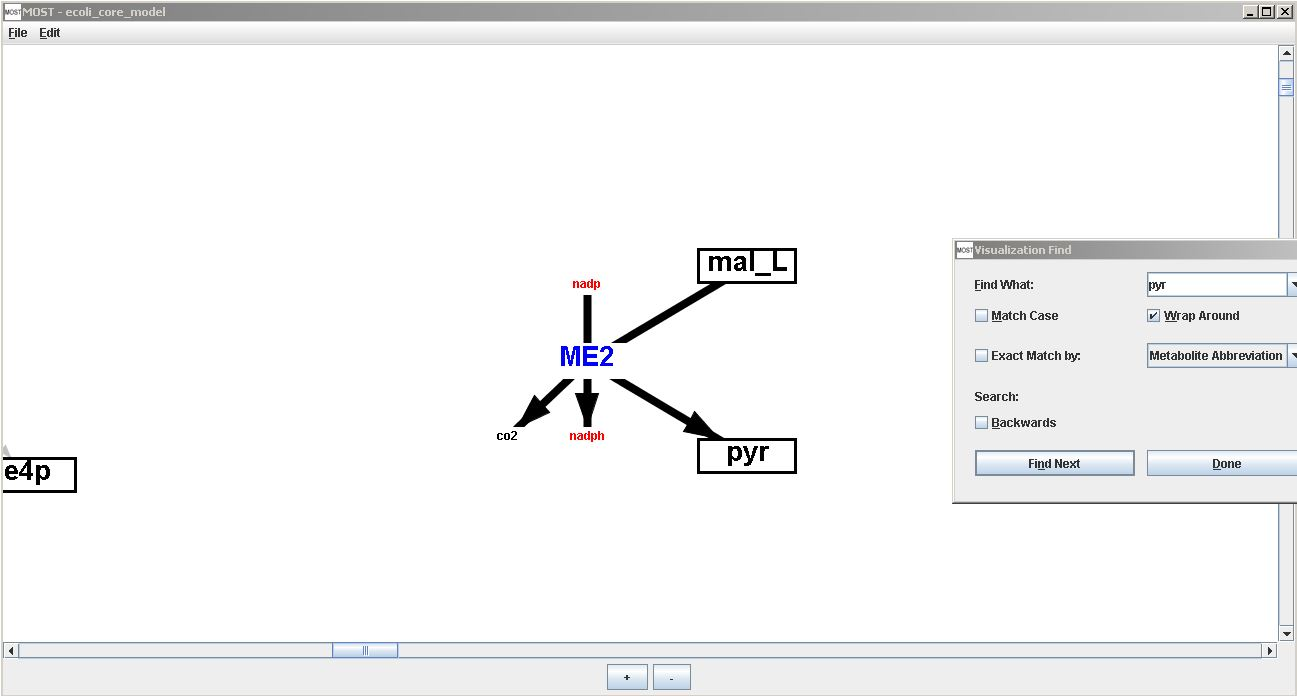
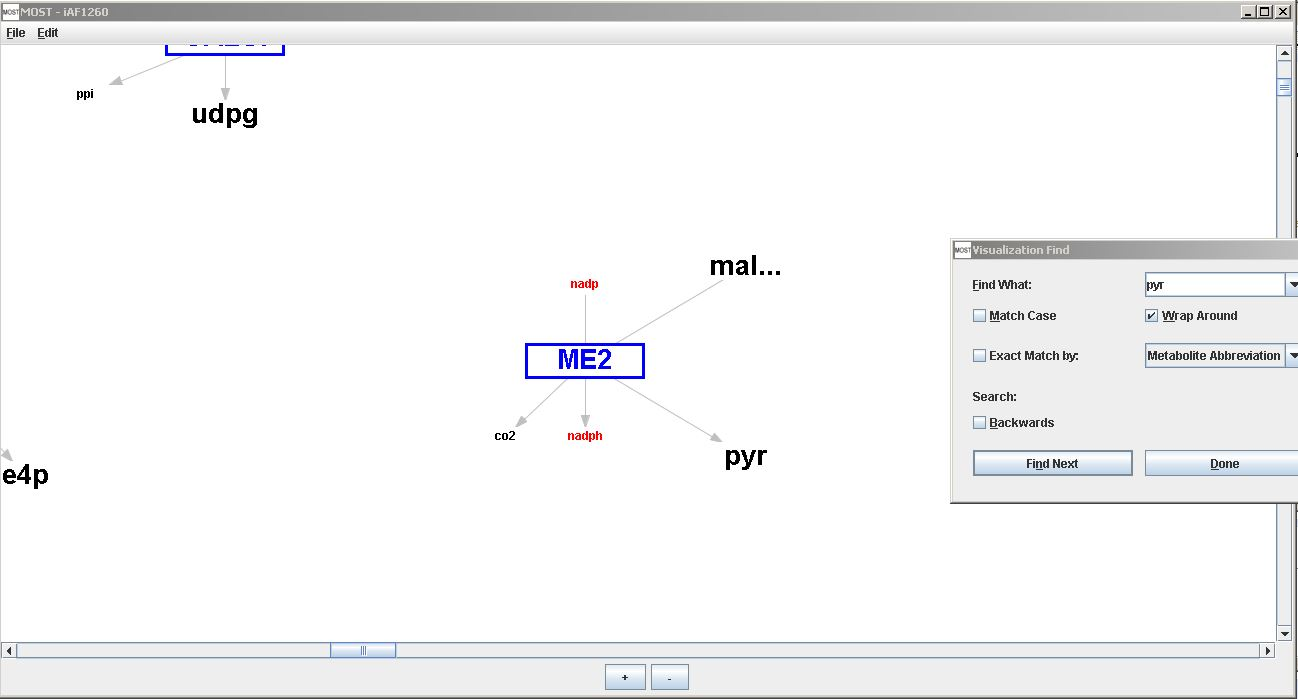
Updated website.

diff --git a/etc/backup/website/visualization_tutorial.html b/etc/backup/website/visualization_tutorial.html
@@ -145,18 +145,17 @@ A{text-decoration:none}
 	</td>
 
 	<td width=600 valign=top>
-	<p align=center><font size=5>SPOT (Simplified Pearson cOrrelation<br> with Transcriptomic data) Tutorial</font></p>
+	<p align=center><font size=5>Visualization Tutorial</font></p>
 
 	<p><strong>Step 1</strong></p>
 	
 	<blockquote><strong>Load Model. </strong>
-	To load an SBML or CSV model,  go to File, then click
-	either Load SBML or Load CSV. A model from the <a href="file_menu.html#collection">Model
-	Collection Database</a> can also be used. Select File &#8594; Load
-	from Model Collection Database (Alt+F then Alt+D). If
-	necessary, the model can be edited after being loaded
-	depending on your experiment. For a test purpose, select <strong>ecoli_core_model</strong>, 
-	then click the OK button on the Model Collection dialog. This model will be used for this tutorial.</blockquote> 
+	For a test purpose, select <strong>ecoli_core_model</strong>, 
+	then click the OK button on the Model Collection dialog. This model will be used for this tutorial.
+	Notice the "Yes" entry in the Identifiers column, meaning the model has KEGG ids
+	or CHEBI ids or both. Only models with identifiers can be visualized. See the
+	<a href="visualization_menu.html">Visualization Menu page</a> for more on identifiers.
+	</blockquote> 
 
 	<p align="center"><a href="images/load_ecoli_core.jpg" target="_blank">
 	<img src ="images/load_ecoli_core.jpg" alt="Image - Load E coli core" border="0" height="90%" width="90%"></a></p>
@@ -168,41 +167,61 @@ A{text-decoration:none}
 	<p align="center"><a href="images/loadsbml.jpg" target="_blank">
 	<img src ="images/loadsbml.jpg" alt="Image - Load SBML" border="0" height="90%" width="90%"></a></p>
 
-	<blockquote><strong>Note: SPOT does not require a Biological Objective to be set.</strong></blockquote>
-
 	<p><strong>Step 2</strong></p>
 
-	<blockquote><strong>Load Gene Expression File.</strong></blockquote> 
+	<blockquote><strong>Visualize Compartment. </strong>Select Visualization &#8594; Visualize Compartment (Alt+V then Alt+V). 
+	</blockquote>
 
-	<blockquote>SPOT requires a CSV file with two columns where the first column in the gene name and the
-	second column is the gene expression as shown below:</blockquote>
+    	<blockquote>The Compartment Name Selection dialog will appear.</blockquote>
 
-	<p align="center"><img src ="images/gene_expr.jpg" alt="Image - Gene Expression" border="0"></p>
+	<p align="center"><img src ="images/compartment_selector.jpg" alt="Image - Compartment Name Selection" border="0"></p>
 
-	<blockquote>Click <a href="gene_expr.csv" target="_blank">here</a> to download a sample gene expression csv file that can be used for
-	the test of the ecoli_core_model.</blockquote>
+	<blockquote>Select "C_c (Cytosol)" to visualize the cytosol compartment. This compartment should
+	already be selected, but if not click the arrow next to the dropbox
+	to select this compartment. Click the OK button to continue.</blockquote>
+
+	<blockquote>The progress
+                bar will appear while the model is being processed, then close when the visualization is finished.
+	</blockquote>
+
+	<p align="center"><a href="images/loadsbml.jpg" target="_blank">
+	<img src ="images/loadsbml.jpg" alt="Image - Load SBML" border="0" height="90%" width="90%"></a></p>
+
+	<blockquote>A Visualization report will appear on top of the Visualization frame. The report lists reactions that were graphed
+	and not graphed. For the ecoli_core_model, all 49 of the reactions in the cytosol compartment will be visualized
+	and listed in the Plotted Reactions category. The OK button on the bottom of the report or X button on the top right 
+	can be used to close the report, or the report can be minimized to view the Visualization frame.</blockquote>
+
+	<p align="center"><a href="images/visualization_report-ecoli_core.jpg" target="_blank">
+	<img src ="images/visualization_report-ecoli_core.jpg" alt="Image - Visualization Report" border="0" height="80%" width="80%"></a></p>
+
+	<p align="center">Visualization Report</p>
+
+	<p align="center"><a href="images/e_coli_core_visualization.jpg" target="_blank">
+	<img src ="images/e_coli_core_visualization.jpg" alt="Image - Visualization Frame" border="0" height="80%" width="80%"></a></p>
+
+	<p align="center">Visualization Frame</p>
 
 	<p><strong>Step 3</strong></p>
 
-	<blockquote><strong>Run Analysis. </strong>Select Analysis &#8594; SPOT (Alt+A then Alt+S)..</blockquote>  
+	<blockquote><strong>Navigate the Visualization</strong></blockquote>
 
-    	<blockquote>A file browser will appear. Select the gene expression csv downloaded in Step 2, then click the Open button
-	on the file browser.</blockquote>
+	<blockquote> 
+	The visualization can be navigated by dragging the mouse inside the drawing or moving the scroll bars. The "+" button
+                will zoom in and the "-" button will zoom out. The name of the model and compartment visualized are in the
+	top left corner. A legend containing line thicknesses and the flux ranges (absolute value) that each thickness represents lies below the 
+	compartment name if the model contains any non-zero fluxes.</blockquote>
 
-	<p align="center"><a href="images/load_gene_expr.jpg" target="_blank">
-	<img src ="images/load_gene_expr.jpg" alt="Image - Load Gene Expression" border="0" height="90%" width="90%"></a></p>
+	<p align="center"><a href="images/title_flux_legend.jpg" target="_blank">
+	<img src ="images/title_flux_legend.jpg" alt="Image - Title and legend" border="0" height="80%" width="80%"></a></p>
 
-	<blockquote>A progress bar will appear:</blockquote>
+	<blockquote>The remainder of the visualization contains reaction, and metabolite nodes joined by
+	edges and pathway labels. See <a href="help.html#visualize">Visualization Overview</a>.</blockquote>
 
-	<p align="center"><a href="images/spot_progress.jpg" target="_blank">
-	<img src ="images/spot_progress.jpg" alt="Image - SPOT progress" border="0" height="90%" width="90%"></a></p>
-
-	<blockquote>After SPOT is finished, a new link of the optimization result will be added to the tree on the upper right panel, 
-	and results will be displayed in the console. The numerical values in the Flux Value column shows the predicted metabolic fluxes. </blockquote>
-
-	<p align="center"><a href="images/spot_done.jpg" target="_blank">
-	<img src ="images/spot_done.jpg" alt="Image - SPOT Results" border="0" height="90%" width="90%"></a></p>
-
+	<blockquote>The visualization of the ecoli_core is rather sparse considering the small number of reactions present.
+	After becoming accustomed to the appearance and navigation of the visualization of a small model, 
+	try loading a larger model such as
+	iAF1260 which also has a "Yes" in the Identifiers column.</blockquote>
 
 	</td>
 	</tr>

diff --git a/etc/backup/website/visualization_menu.html b/etc/backup/website/visualization_menu.html
@@ -151,18 +151,26 @@ A{text-decoration:none}
 	and set levels for edge thicknesses in visualizations.
 	</blockquote>
 
-	<blockquote>MOST uses <a href="http://www.genome.jp/kegg/">KEGG</a> ids
-	or <a href="https://www.ebi.ac.uk/chebi/">CHEBI</a> ids to identify metabolites. 
+	<blockquote>MOST uses <a href="http://www.genome.jp/kegg/">KEGG</a> ids,
+	<a href="https://www.ebi.ac.uk/chebi/">CHEBI</a> ids, or
+	<a href="http://blog.theseed.org/model_seed/">Model Seed</a> ids
+	to identify metabolites. 
 	Identifier columns are automatically 
 	located if the columns names contain "KEGG", "Kegg", "CHEBI", or "Chebi", or "EC", "E.C.". 
 	<a href="http://enzyme.expasy.org/">EC Numbers</a> or 
-	KEGG reaction ids can be used to assist in identifying reactions but are not required.
+	KEGG reaction ids can be used to assist in identifying reactions but are not required.</blockquote>
+	<blockquote>Model Seed ids in models from Model Seed are located in the Metabolite Abberviation column and automatically
+	located when visualizing.
 	Click <a href="#about">here</a> for more information on visualization.</blockquote> 
 	<blockquote>MOST visualizes models by compartment. 
 	If any compartment entries are blank, the compartments will need to be renamed to a default name.</blockquote>
 
-	<blockquote>Models in the <a href="file_menu.html#collection">Model Collection</a> that contain KEGG ids and can be 
-	visualized are indicated by a "Yes" entry in the Identifiers column.</blockquote>
+	<blockquote>Models in the <a href="file_menu.html#collection">Model Collection</a> that contain KEGG ids 
+	and/or CHEBI ids and can be 
+	visualized are indicated by a "Yes" entry in the Identifiers column. SBML models
+	from <a href="http://blog.theseed.org/model_seed/">Model Seed</a> will
+	also visualize if Model Seed ids such as "cpd00001_c0" are located in the Metabolite Abbreviation column
+	of the Metabolites table.</blockquote>
 
 	<br>
 	<p><a name="visualize"><strong>  Visualize Compartment:</strong></a></p>
@@ -291,7 +299,11 @@ space in the map for a reaction and associated metabolites. One problem with usi
 multi-step reactions that are condensed into one step whereas the models available include most or all of these steps. In most 
 cases there was enough room to map all of the steps. A database was created with tables matching reactions and metabolites 
 to positions in the map and metabolites to reactions.</blockquote>
-<blockquote>KEGG ids or CHEBI ids are required to identify metabolites, since these identifiers serve as positive identifiers of a metabolite. 
+<blockquote><a href="http://www.genome.jp/kegg/">KEGG</a> ids,
+	<a href="https://www.ebi.ac.uk/chebi/">CHEBI</a> ids, or
+	<a href="http://blog.theseed.org/model_seed/">Model Seed</a> ids 
+are required to identify metabolites, 
+since these identifiers serve as positive identifiers of a metabolite. 
 Only reactions where all metabolites have identifiers are considered. Reactions are mapped by compartment. Reactions and 
 metabolites that participate in a given reaction are identified by matching KEGG ids of reactants and products from the model 
 to reactants and products in this database in forward or reverse order. Protons in reactions from the model are excluded from 

diff --git a/etc/backup/website/help.html b/etc/backup/website/help.html
@@ -284,12 +284,11 @@ A{text-decoration:none}
 
 	<br>
 
-	<blockquote>Reaction nodes have blue text and are all the same size. 
+	<blockquote>Reaction nodes have blue text, blue borders, and are all the same size. 
 	Metabolite nodes are large if the metabolite is a main component in a reaction and smaller for components such as H2O, O2, CO2,
 	and cofactors.
-	Large metabolite nodes are shown in black. 
-	and are enclosed in boxes if the metabolite occurs in multiple places.
-	Smaller metabolites are either in black or red if the metabolite is a cofactor.
+	Large metabolite nodes are shown in black..
+	Smaller metabolite nodes are shown in either in black or red if the metabolite is a cofactor.
 	Reaction edges link components in a reaction and arrows show if a reaction is reversible or not. 
 	Pathway names are shown in orange.
 	</blockquote>

diff --git a/etc/backup/website/tutorials.html b/etc/backup/website/tutorials.html
@@ -148,6 +148,7 @@ A{text-decoration:none}
 	<p><span style="padding-left: 100px; display:block"><a href="gdbb_tutorial.html">GDBB Tutorial</a></span></p>
 	<p><span style="padding-left: 100px; display:block"><a href="eflux_tutorial.html">E-Flux2 Tutorial</a></span></p>
 	<p><span style="padding-left: 100px; display:block"><a href="spot_tutorial.html">SPOT (Simplified Pearson cOrrelation with Transcriptomic data) Tutorial</a></span></p>
+	<p><span style="padding-left: 100px; display:block"><a href="visualization_tutorial.html">Visualization Tutorial</a></span></p>
 
 	</td>
 	</table>

diff --git a/src/edu/rutgers/MOST/presentation/PathwaysFrameConstants.java b/src/edu/rutgers/MOST/presentation/PathwaysFrameConstants.java
@@ -266,6 +266,6 @@ public class PathwaysFrameConstants {
 	public static final double MAX_DECIMAL_FORMAT = 1000;
 	public static final int FLUX_LEGEND_SIGNIFICANT_FIGURES = 3;
 	
-	public static final boolean HIDE_DATABASE_IDS = false;
+	public static final boolean HIDE_DATABASE_IDS = true;
 	
 }
